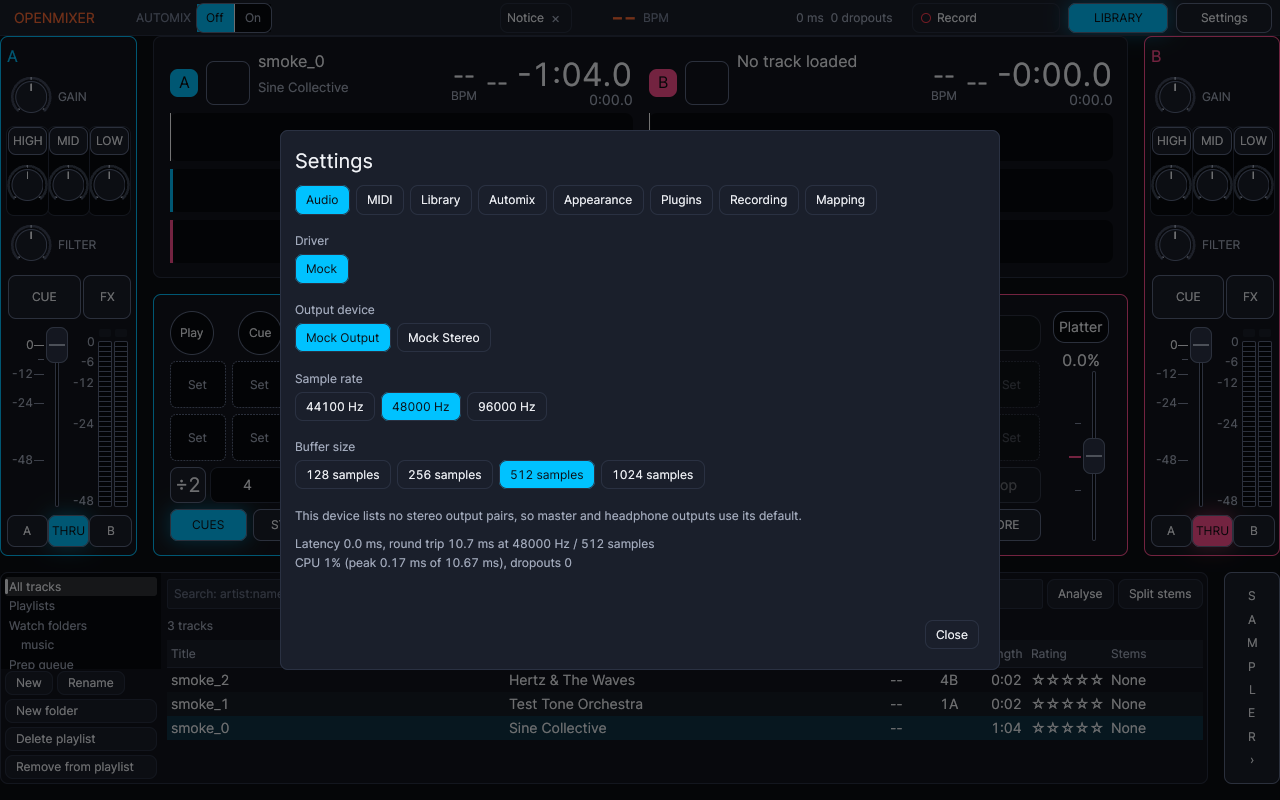
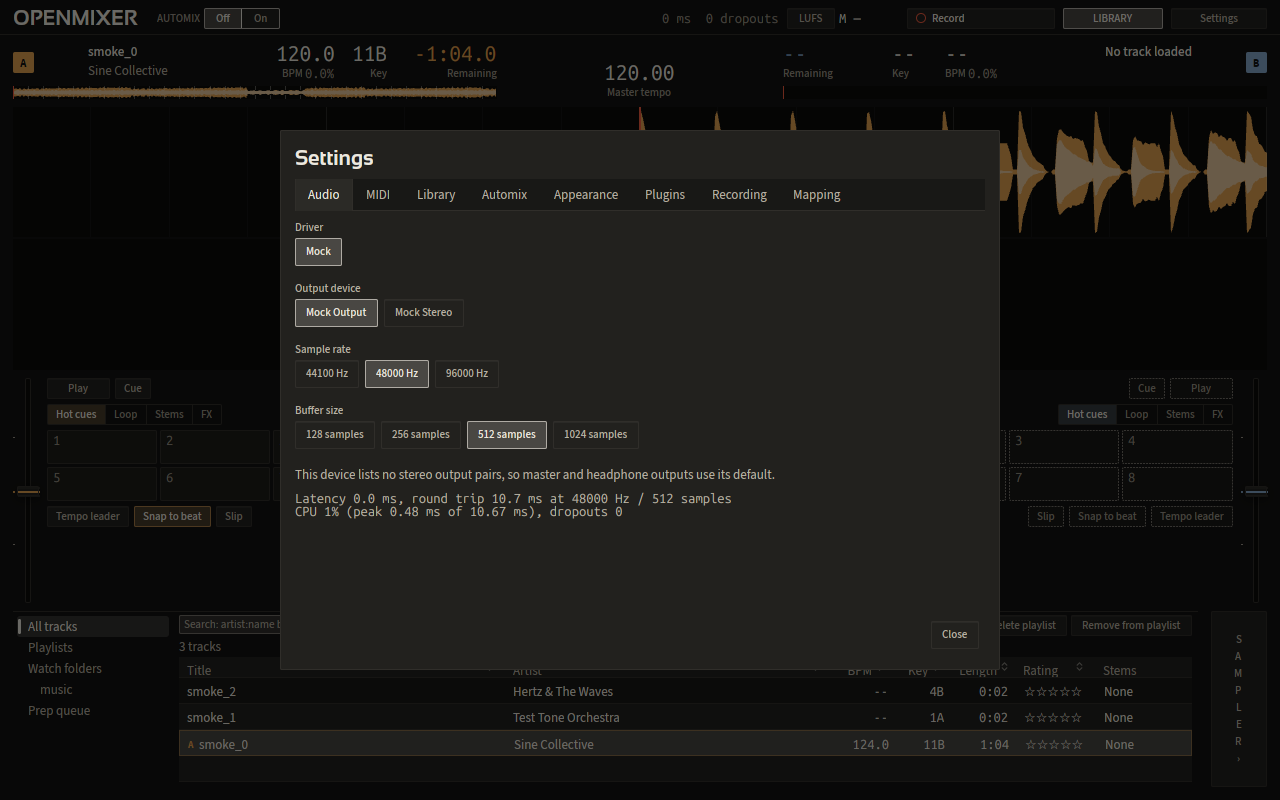
docs(screenshots): recapture all scenes on the faceplate
Demo runs on --mock-device drop the demo-mode notice, and the
demo-library scenes wait for deck A's analysis.

diff --git a/crates/openmixer/src/gui.rs b/crates/openmixer/src/gui.rs
@@ -1,5 +1,6 @@
 //! `--features gui`: opens the GPUI window over a DjEngine. The device is output only. Without a
 //! device (or with `--mock-device`) the engine runs on the silent mock device and a banner says so.
+//! A demo run (`--demo-*`) on `--mock-device` shows no banner.
 //! `--smoke` renders a fixed number of frames and exits 0; with the library it also ingests generated
 //! tracks into a temporary library, loads one into deck A and checks the deck and the table after
 //! the frames. `--debug-panel` shows the device, latency and raw parameter panel. The settings
@@ -150,7 +151,8 @@ pub fn main(args: &[String]) -> ExitCode {
     let (output, banner) = if mock {
         (
             mock_output(),
-            Some(om_ui::labels::notice_text(om_ui::labels::Notice::Demo).to_owned()),
+            // A staged demo run is for screenshots: the notice would cover deck B's header.
+            (!demo_run).then(|| om_ui::labels::notice_text(om_ui::labels::Notice::Demo).to_owned()),
         )
     } else {
         let cpal = SharedOutput::new(OutputSettings::new(Box::new(CpalBackend)));

diff --git a/docs/screenshots/REVIEW.md b/docs/screenshots/REVIEW.md
@@ -149,7 +149,7 @@ Looked at by eye: `main-dark`, `main-daylight`, `main-stems`, `meters-lit-dark`,
 
 How: no display was available, so the real main window (`Shell` over the real engine, the mock device, the generated demo library, deck A on the Cues scene, deck B loaded) was rendered offscreen with gpui's headless wgpu renderer on lavapipe, at 2x scale, by a scratch harness that is not in the repo. Matrix: dark, daylight and harbour x Roomy and Compact x 1280x720, 1440x900 and 1920x1080 (18 captures), plus the Loop and FX tabs (dark Roomy 1440x900, daylight Compact 1280x720), the Stems tab with the platter (dark Compact 1280x720), the library hidden (harbour Compact 1280x720), the sampler open (dark, Automatic, 1920x1080), the Appearance settings and the debug panel, an empty library with no deck loaded (dark Roomy 1440x900, daylight Compact 1280x720) and a library row whose file went missing (dark Compact and daylight Roomy, 1440x900). Each was looked at against `openmixer-workbench/docs/design-system/Design System.dc.html` sections 4a, 4b, Light mode and States (read as text; no browser was available to render the canvas).
 
-**The PNGs in this folder were not refreshed.** They come from `tools/screenshots.sh`, which captures the binary's window on X11 with its own demo flags (`--demo-library`, `--demo-scene=…`, `--demo-automix`, `--demo-record`, `--settings=…`); the headless harness sets up a similar but not identical state and cannot run those paths, so its images would not be what the script produces. The tracked captures therefore still show the E1 window until `tools/screenshots.sh` is run with `OUT_DIR=docs/screenshots` on a display. The README screenshot is unchanged for the same reason.
+**The PNGs in this folder were not refreshed in Phase 6** (they were on 2026-11-12, see the last section). They come from `tools/screenshots.sh`, which captures the binary's window on X11 with its own demo flags (`--demo-library`, `--demo-scene=…`, `--demo-automix`, `--demo-record`, `--settings=…`); the headless harness sets up a similar but not identical state and cannot run those paths, so its images would not be what the script produces. The tracked captures therefore still show the E1 window until `tools/screenshots.sh` is run with `OUT_DIR=docs/screenshots` on a display. The README screenshot is unchanged for the same reason.
 
 | # | Found | Status | What changed / why not |
 |---|---|---|---|
@@ -169,3 +169,23 @@ How: no display was available, so the real main window (`Shell` over the real en
 Looked at, no defect beyond the above: the header (wordmark, latency, LUFS, Record, LIBRARY, Settings), both deck headers with their letters, the master tempo, the two waveforms (Low-Band style, signal-red playhead, cue flags with numbers, loop region, bar numbers), the mixer column, the crossfader with its A and B tags, the hot cue pads, the debug panel, and the Appearance card in all three themes where captured. Daylight and harbour hold the same structure as dark. Deck letters sit beside every deck hue (tags, crossfader, library rows), LOCK and CLIP are words (deck view and meter), and the error row states its reason in words.
 
 Not verified: a live window on a real display (hover, press, keyboard focus rings as they appear, drag), real music in the waveforms and the library, frame times, and the `tools/screenshots.sh` scene set.
+
+## Recapture on the faceplate (2026-11-12)
+
+All 21 scenes of `tools/screenshots.sh` were recaptured from the real window (debug build, X11 on WSLg, 1280x800, `--mock-device`) and copied here, so the tracked captures and the README now show the Machined Faceplate.
+
+- A demo run on `--mock-device` no longer shows the "Demo mode: no audio output" notice; it covered deck B's header in every capture. `--mock-device` without a demo flag still shows it.
+- The `--demo-library` scenes (main, debug panel, settings tabs) now wait 8 s, so deck A's waveform, BPM and key are drawn. `main-waveform` is now the same picture as `main-dark`.
+- The MIDI, Library and Mapping tabs print temp paths (`/tmp/om-shots.*`, `/tmp/openmixer-smoke-*`). They follow `TMPDIR`: capture with a neutral one, or a home folder name ends up in the picture.
+
+Looked at by eye, all 21: no notice, no personal path, no overlap or clipping seen. Dark and daylight hold the same structure; cue flags, the loop region, lit meters with CLIP, the platter, the stems tab, the open sampler, the automix bar mid-transition and the recording timer all show.
+
+Still wrong or open:
+- Deck B is empty in every scene but `main-automix`, so half the window shows dashed, disabled controls.
+- `main-dark` sits at the track start: the left half of the zoomed waveform is empty.
+- `meters-lit-*`: the two CLIP words above the channel meters overlap each other ("CLIPLIP").
+- `main-automix`: the "beats left" text is cut ("8 beats le") beside Skip and Cancel.
+- `debug-panel`: deck A's title and artist are squeezed to "s…" and "Si…".
+- `settings-library`: the stem model sentence runs past the card's right edge ("... were added. Load").
+- No harbour scene exists in the script. Demo tracks are still synthetic.
+
